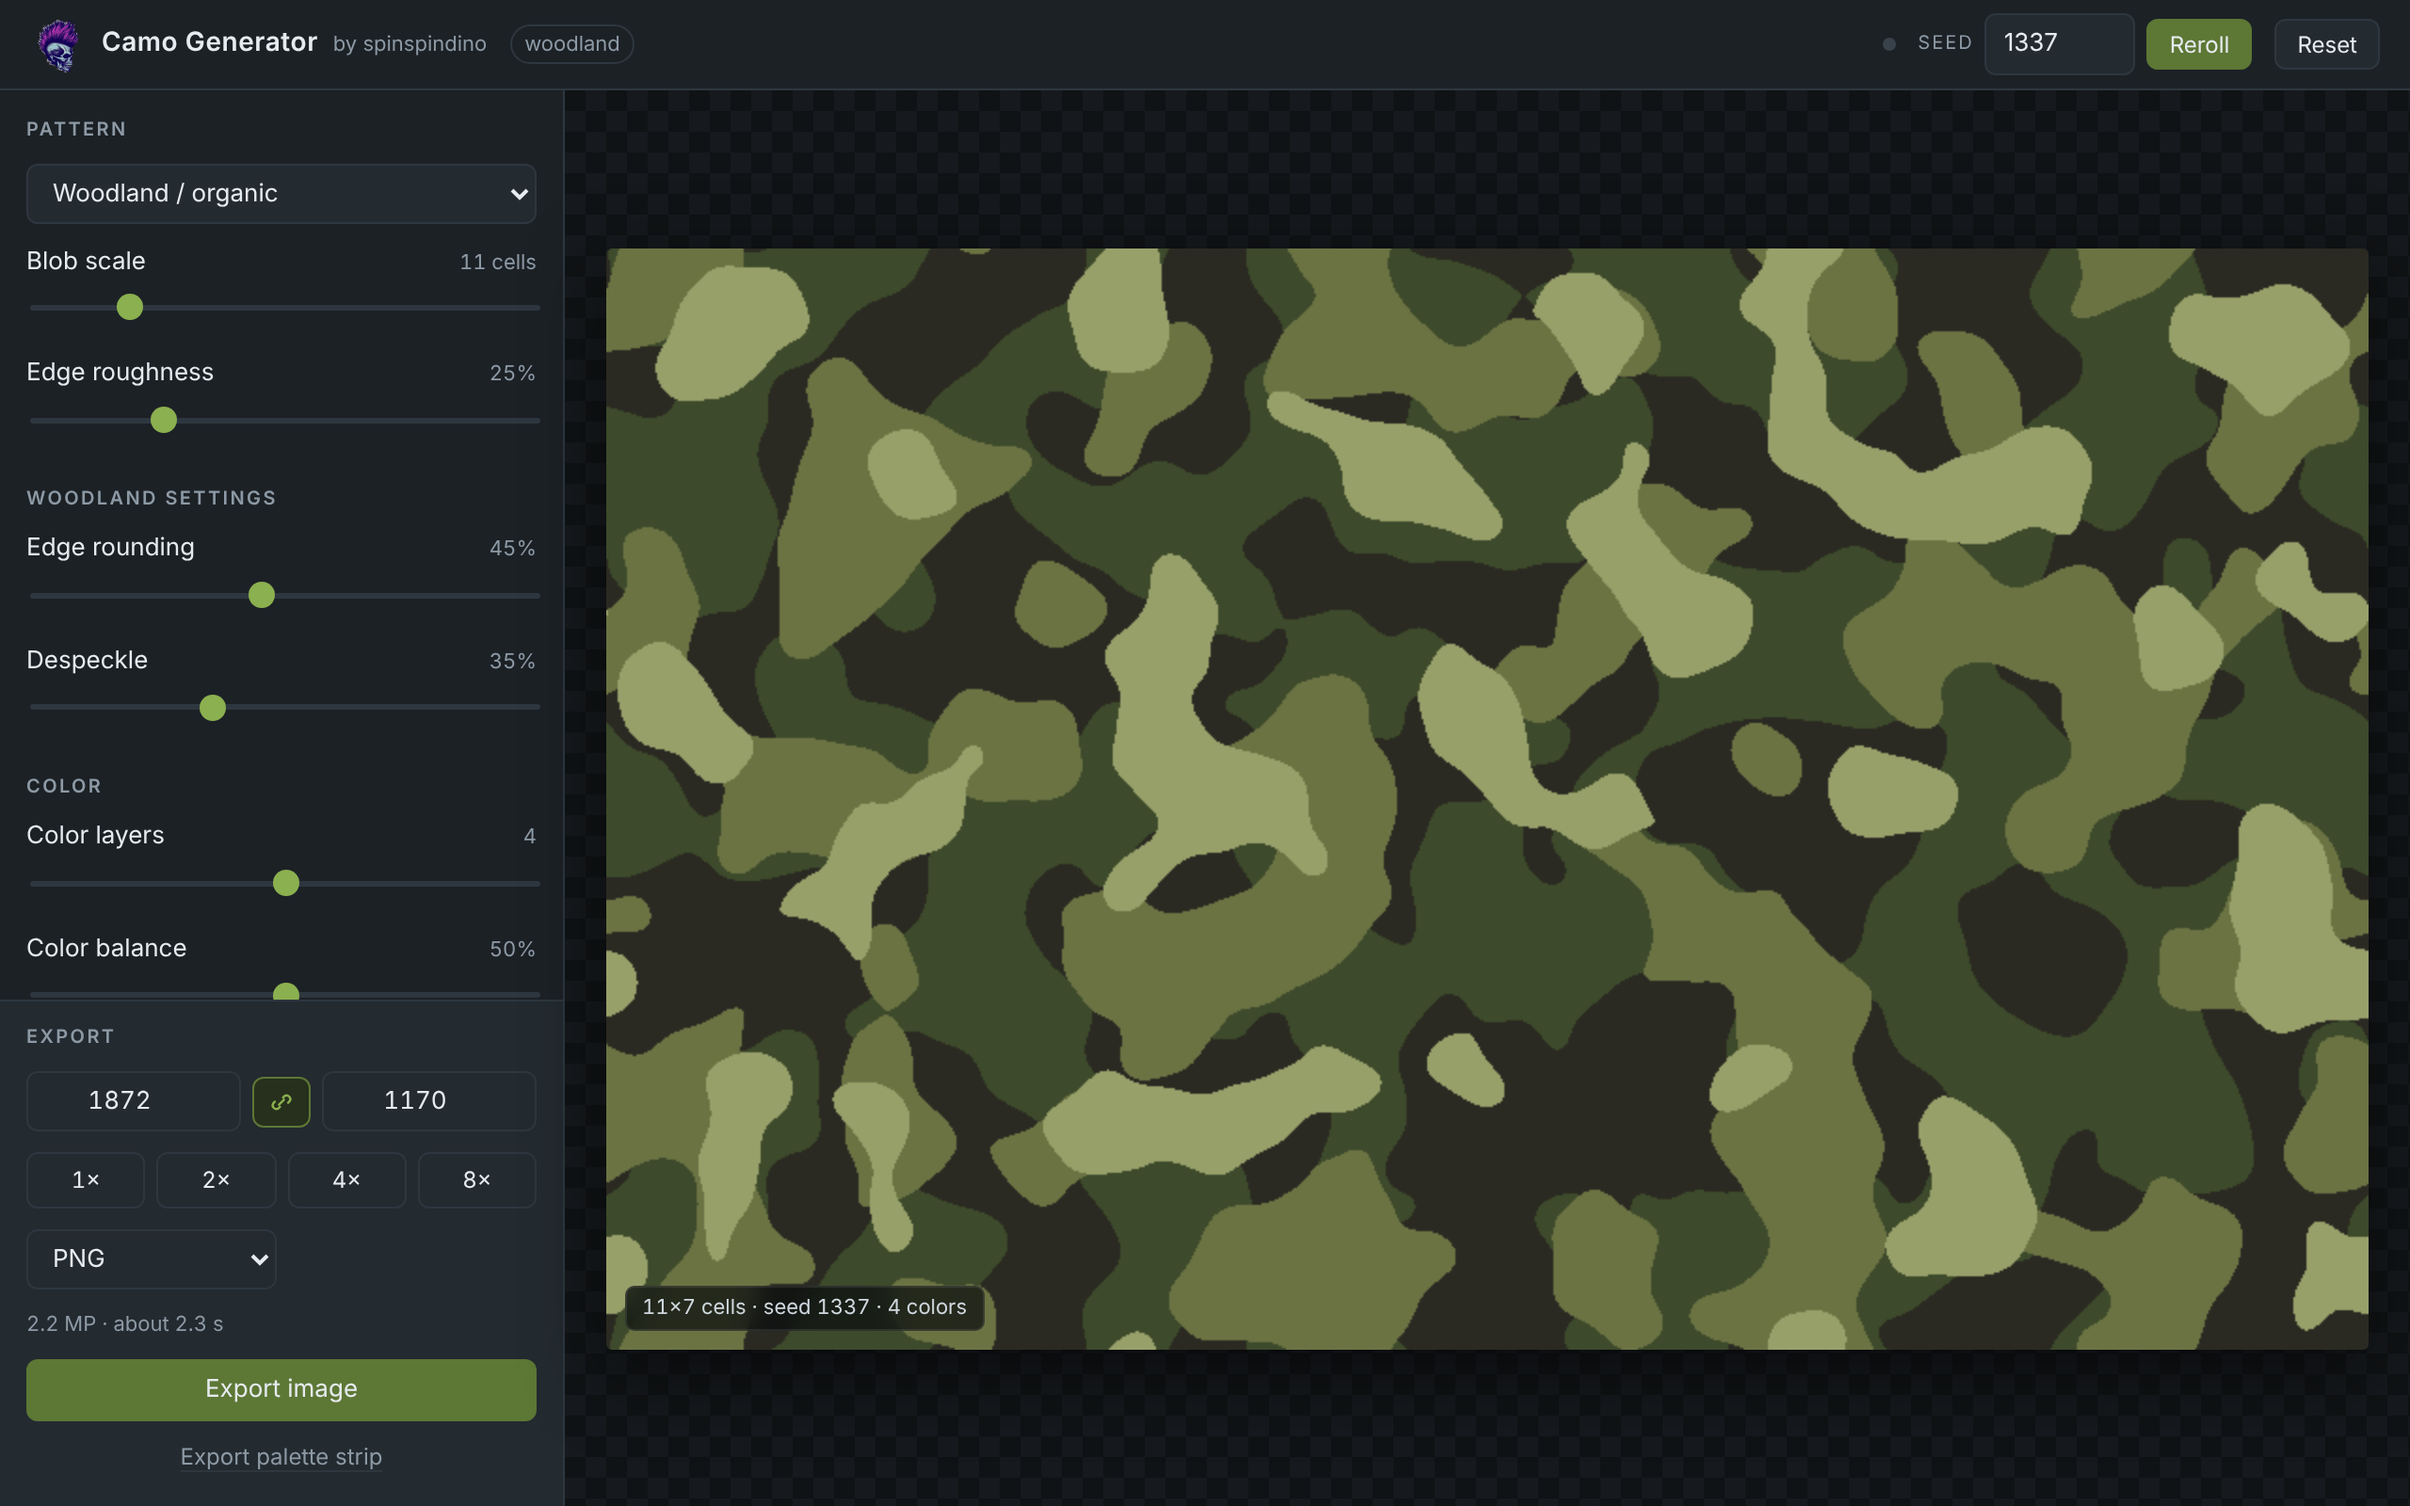
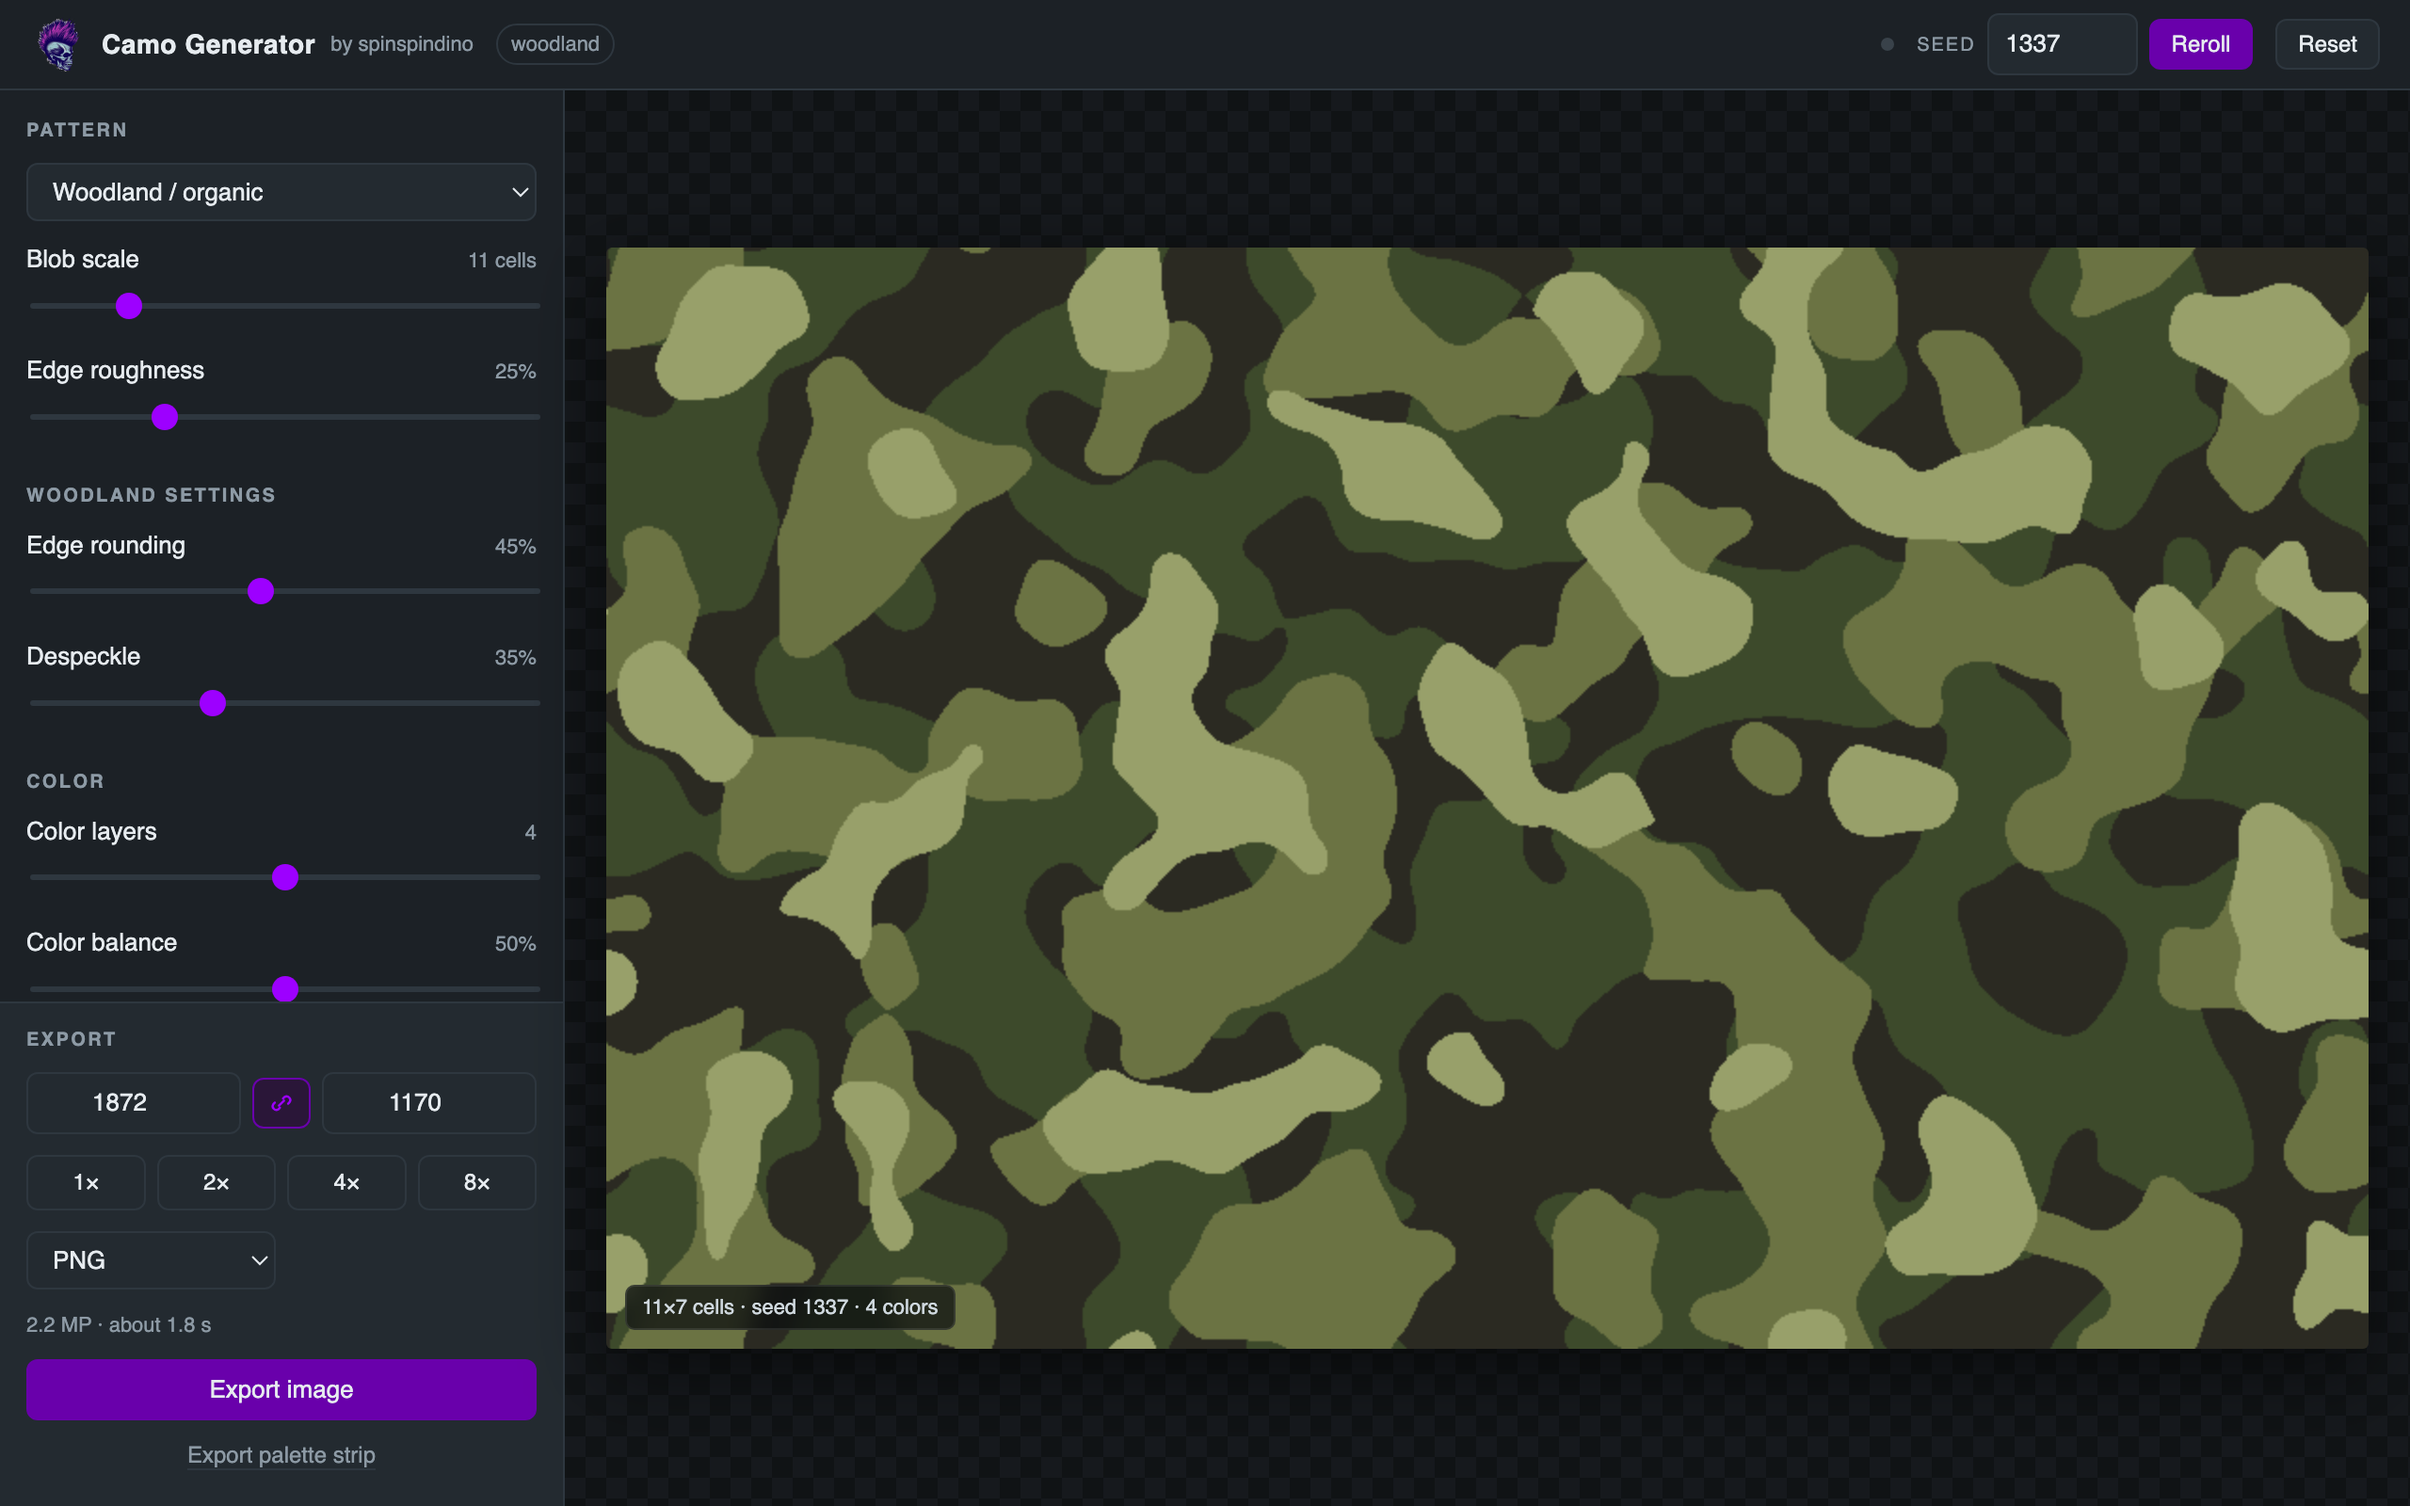
Switch UI accent from green to purple (#9D00FF) and refresh screenshot

diff --git a/index.html b/index.html
@@ -13,8 +13,8 @@
     --line:#2e373f;
     --txt:#e6ebef;
     --dim:#8d9aa5;
-    --accent:#8bb04f;
-    --accent-dim:#5d7735;
+    --accent:#9D00FF;
+    --accent-dim:#6900AB;
   }
   *{box-sizing:border-box}
   html,body{height:100%}
@@ -88,7 +88,7 @@
   button{cursor:pointer}
   button:hover{border-color:#43505b}
   button.primary{background:var(--accent-dim);border-color:var(--accent-dim)}
-  button.primary:hover{background:var(--accent);border-color:var(--accent);color:#12160f}
+  button.primary:hover{background:var(--accent);border-color:var(--accent);color:#fff}
   .btn-row{display:flex;gap:6px}
   .btn-row > *{flex:1;min-width:0}
 
@@ -136,7 +136,7 @@
   .size-row{display:flex;align-items:center;gap:6px}
   .size-row input{flex:1;min-width:0;text-align:center;font-variant-numeric:tabular-nums}
   .lock{flex:0 0 auto;padding:6px 8px;line-height:0;color:var(--dim)}
-  .lock.is-on{color:var(--accent);border-color:var(--accent-dim);background:#26301c}
+  .lock.is-on{color:var(--accent);border-color:var(--accent-dim);background:#2a1638}
   #multrow button{padding:5px 0;font-size:12px;font-variant-numeric:tabular-nums}
   #esize{font-variant-numeric:tabular-nums;margin:2px 0 10px}
   #esize.warn{color:#d8b45a}
@@ -175,7 +175,7 @@
     input[type=range]{height:34px}
     input[type=range]::-webkit-slider-runnable-track{height:4px}
     input[type=range]::-webkit-slider-thumb{width:26px;height:26px;margin-top:-11px;
-      box-shadow:0 0 0 5px rgba(139,176,79,.16)}
+      box-shadow:0 0 0 5px rgba(157,0,255,.16)}
     input[type=range]::-moz-range-thumb{width:26px;height:26px}
     .row{margin-bottom:8px}
     .row .lbl{margin-bottom:0}
